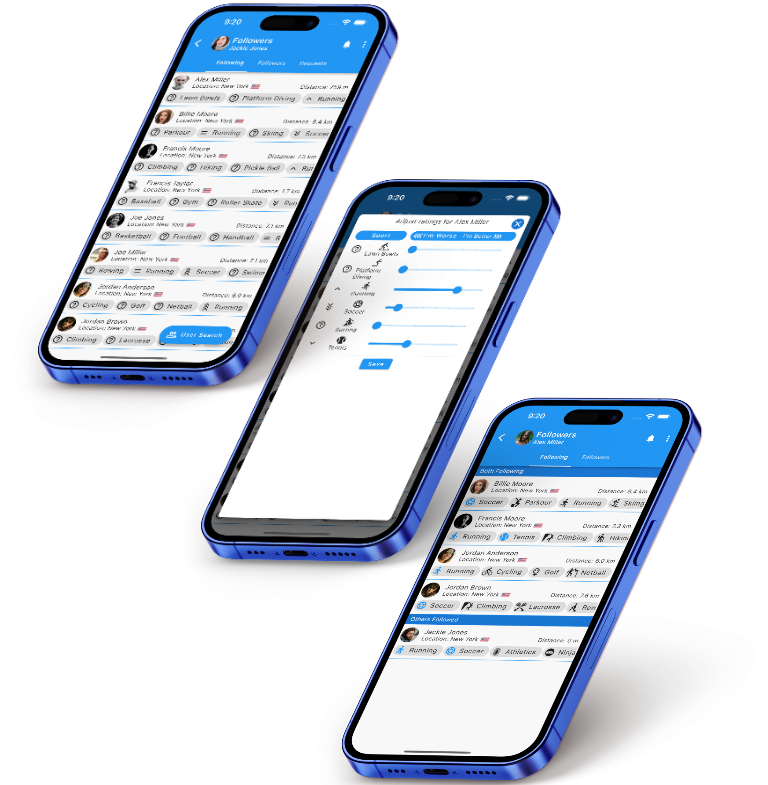
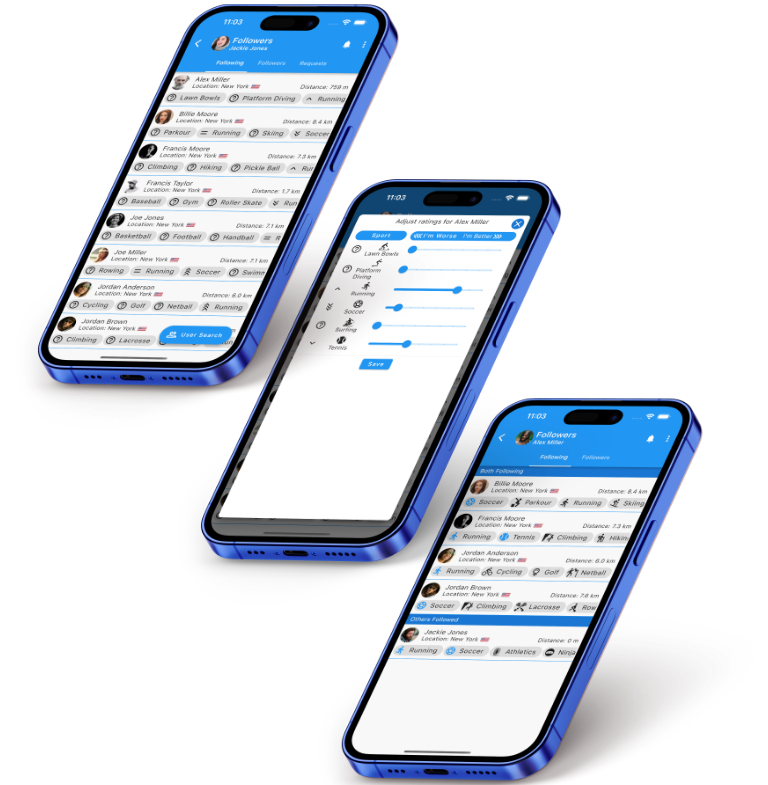
Updated screenshots and twitter link

diff --git a/docs/index.html b/docs/index.html
@@ -55,7 +55,7 @@
 			</a>
 			
 			<div class="flex w-1/2 justify-end content-center">		
-				<!-- <a class="inline-block text-blue-300 no-underline hover:text-indigo-800 hover:text-underline text-center h-10 p-2 md:h-auto md:p-4" data-tippy-content="@Sportacle_io" href="https://twitter.com/sportacle_io">
+				<!-- <a class="inline-block text-blue-300 no-underline hover:text-indigo-800 hover:text-underline text-center h-10 p-2 md:h-auto md:p-4" data-tippy-content="@Sportacle_io" href="https://twitter.com/SportsHQ_io">
 					<svg class="fill-current h-6" style="color: white;" xmlns="http://www.w3.org/2000/svg" viewBox="0 0 32 32"><path d="M30.063 7.313c-.813 1.125-1.75 2.125-2.875 2.938v.75c0 1.563-.188 3.125-.688 4.625a15.088 15.088 0 0 1-2.063 4.438c-.875 1.438-2 2.688-3.25 3.813a15.015 15.015 0 0 1-4.625 2.563c-1.813.688-3.75 1-5.75 1-3.25 0-6.188-.875-8.875-2.625.438.063.875.125 1.375.125 2.688 0 5.063-.875 7.188-2.5-1.25 0-2.375-.375-3.375-1.125s-1.688-1.688-2.063-2.875c.438.063.813.125 1.125.125.5 0 1-.063 1.5-.25-1.313-.25-2.438-.938-3.313-1.938a5.673 5.673 0 0 1-1.313-3.688v-.063c.813.438 1.688.688 2.625.688a5.228 5.228 0 0 1-1.875-2c-.5-.875-.688-1.813-.688-2.75 0-1.063.25-2.063.75-2.938 1.438 1.75 3.188 3.188 5.25 4.25s4.313 1.688 6.688 1.813a5.579 5.579 0 0 1 1.5-5.438c1.125-1.125 2.5-1.688 4.125-1.688s3.063.625 4.188 1.813a11.48 11.48 0 0 0 3.688-1.375c-.438 1.375-1.313 2.438-2.563 3.188 1.125-.125 2.188-.438 3.313-.875z"></path></svg>
 				</a> -->
 				<!-- <a class="inline-block text-blue-300 no-underline hover:text-indigo-800 hover:text-underline text-center h-10 p-2 md:h-auto md:p-4 " data-tippy-content="#facebook_id" href="https://www.facebook.com/sharer/sharer.php?u=#">
@@ -245,7 +245,7 @@
 						</li> -->
 	
 						<li>
-							<a href="https://twitter.com/sportacle_io" rel="noreferrer" target="_blank" class="text-gray-700 transition hover:opacity-75">
+							<a href="https://twitter.com/SportsHQ_io" rel="noreferrer" target="_blank" class="text-gray-700 transition hover:opacity-75">
 								<span class="sr-only">Twitter</span>
 	
 								<svg class="w-6 h-6" fill="currentColor" viewBox="0 0 24 24" aria-hidden="true">
